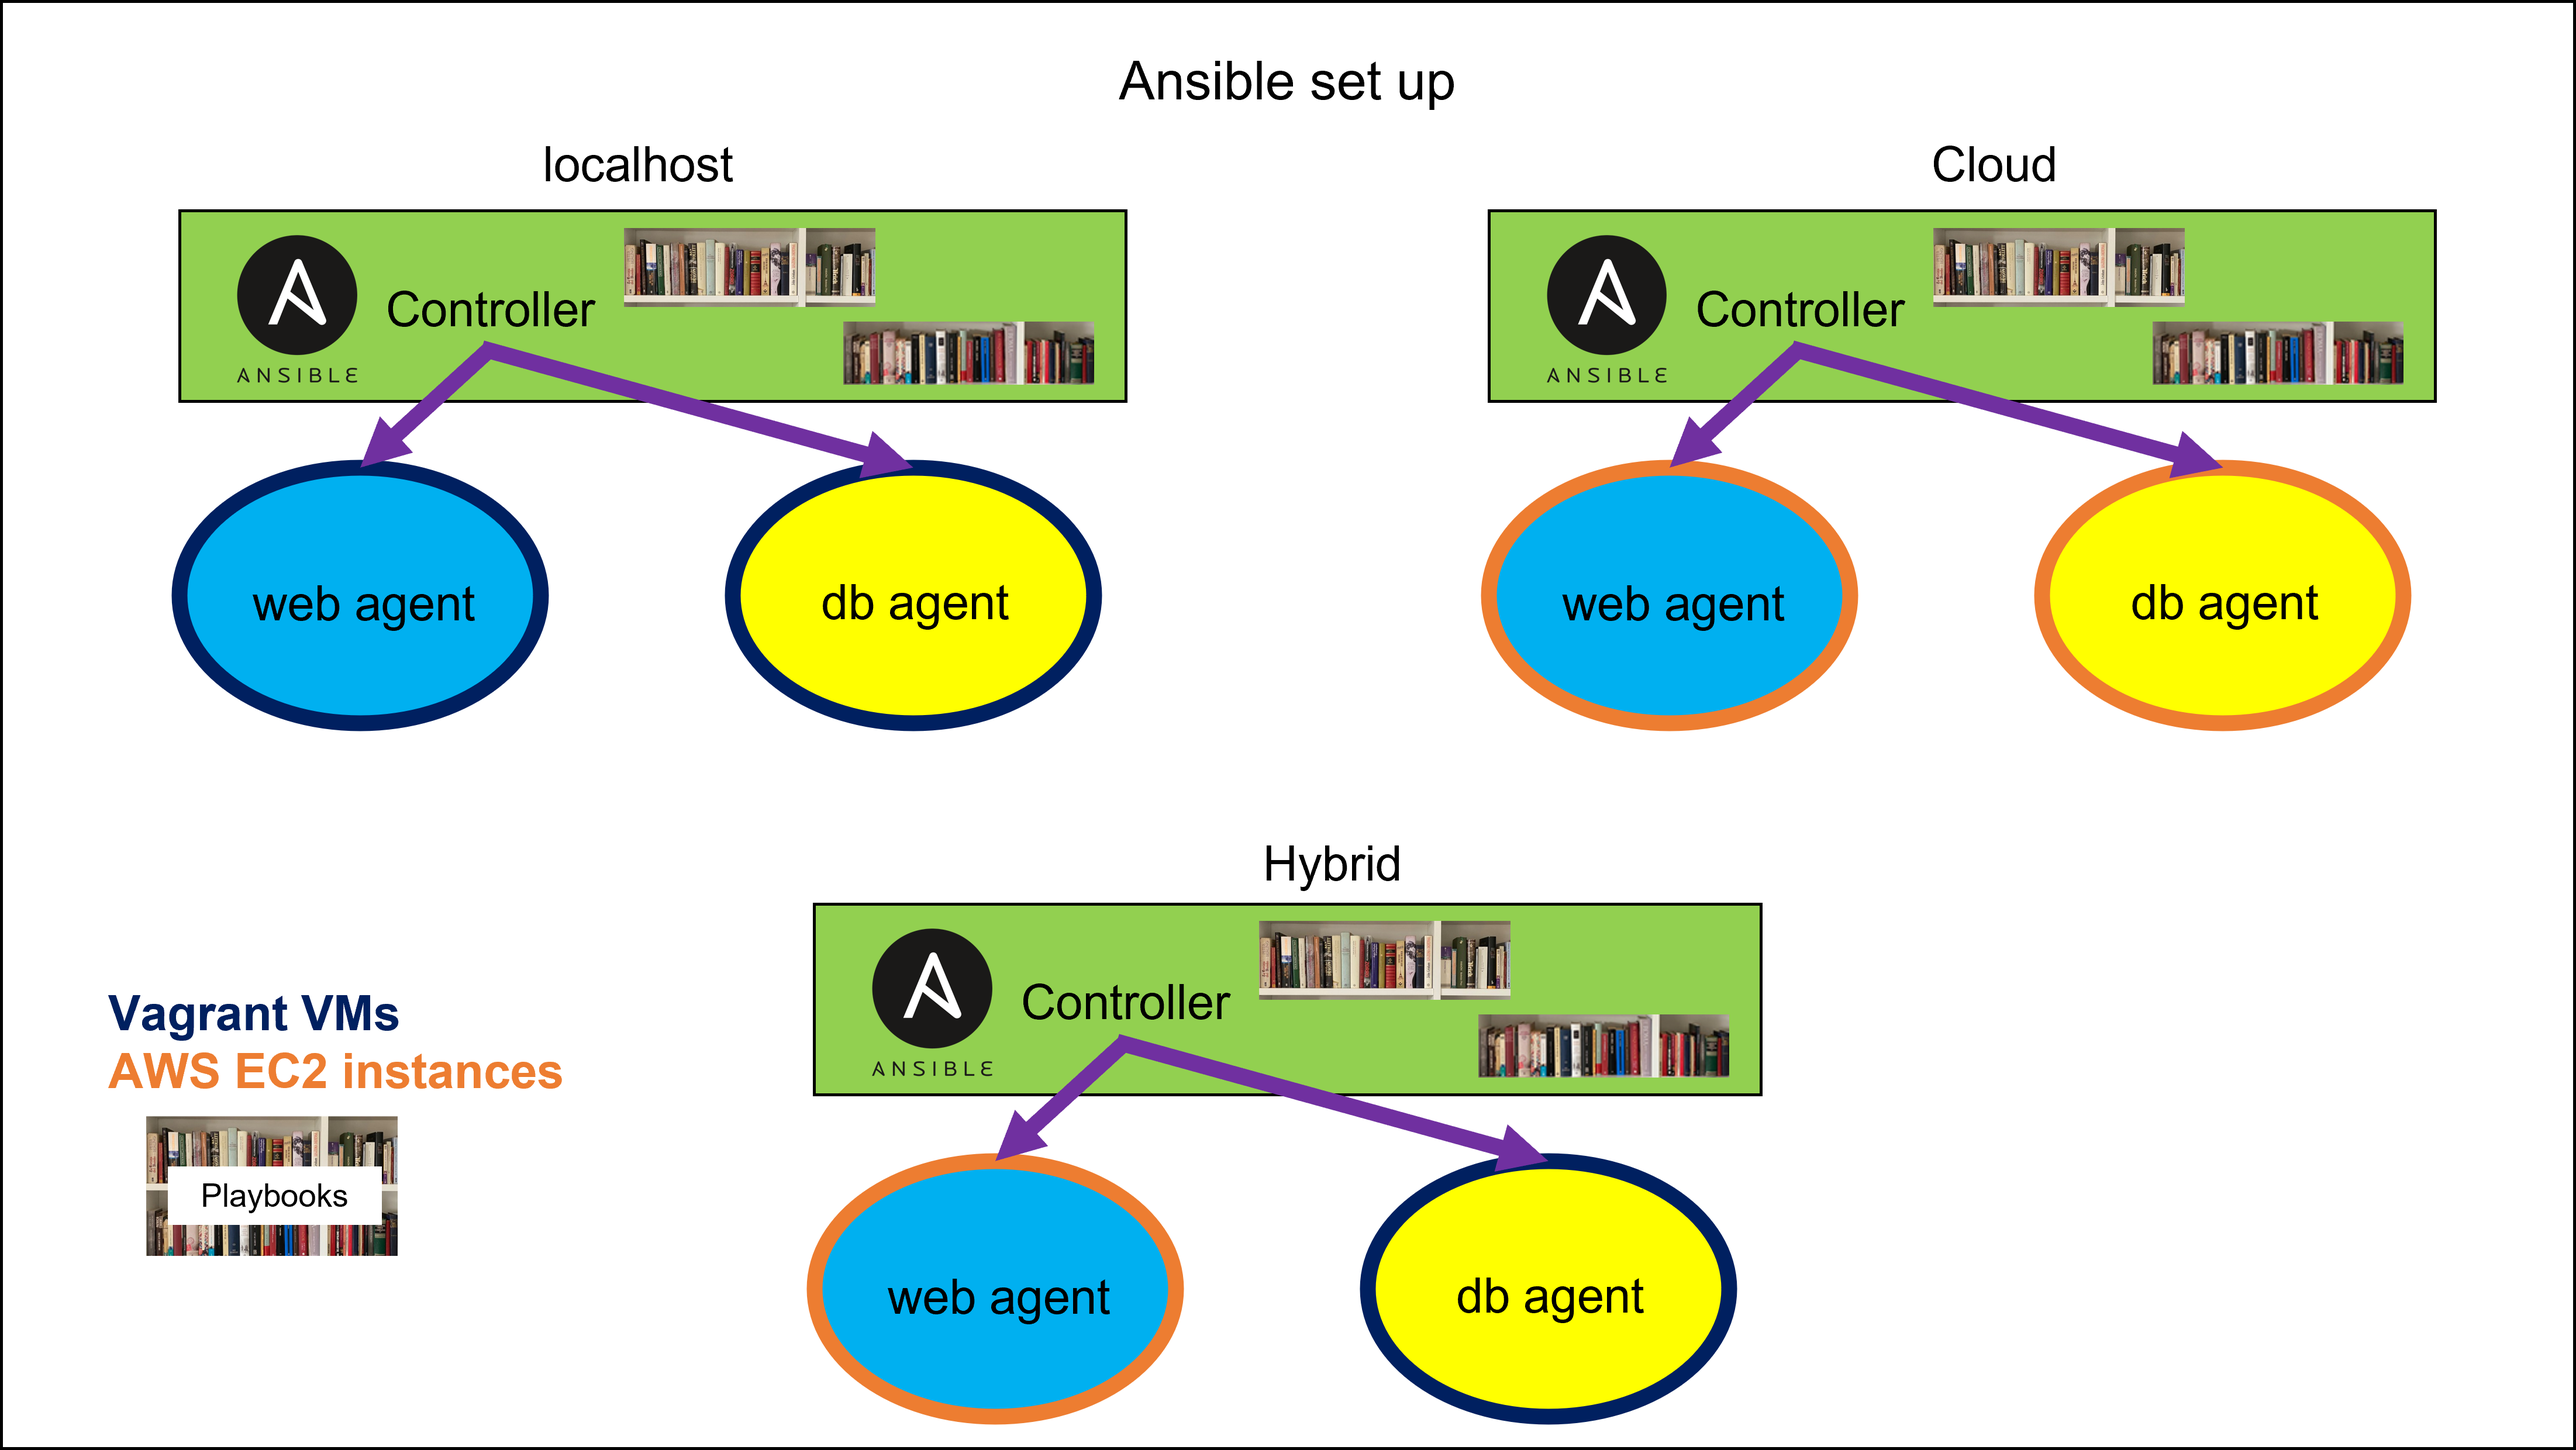
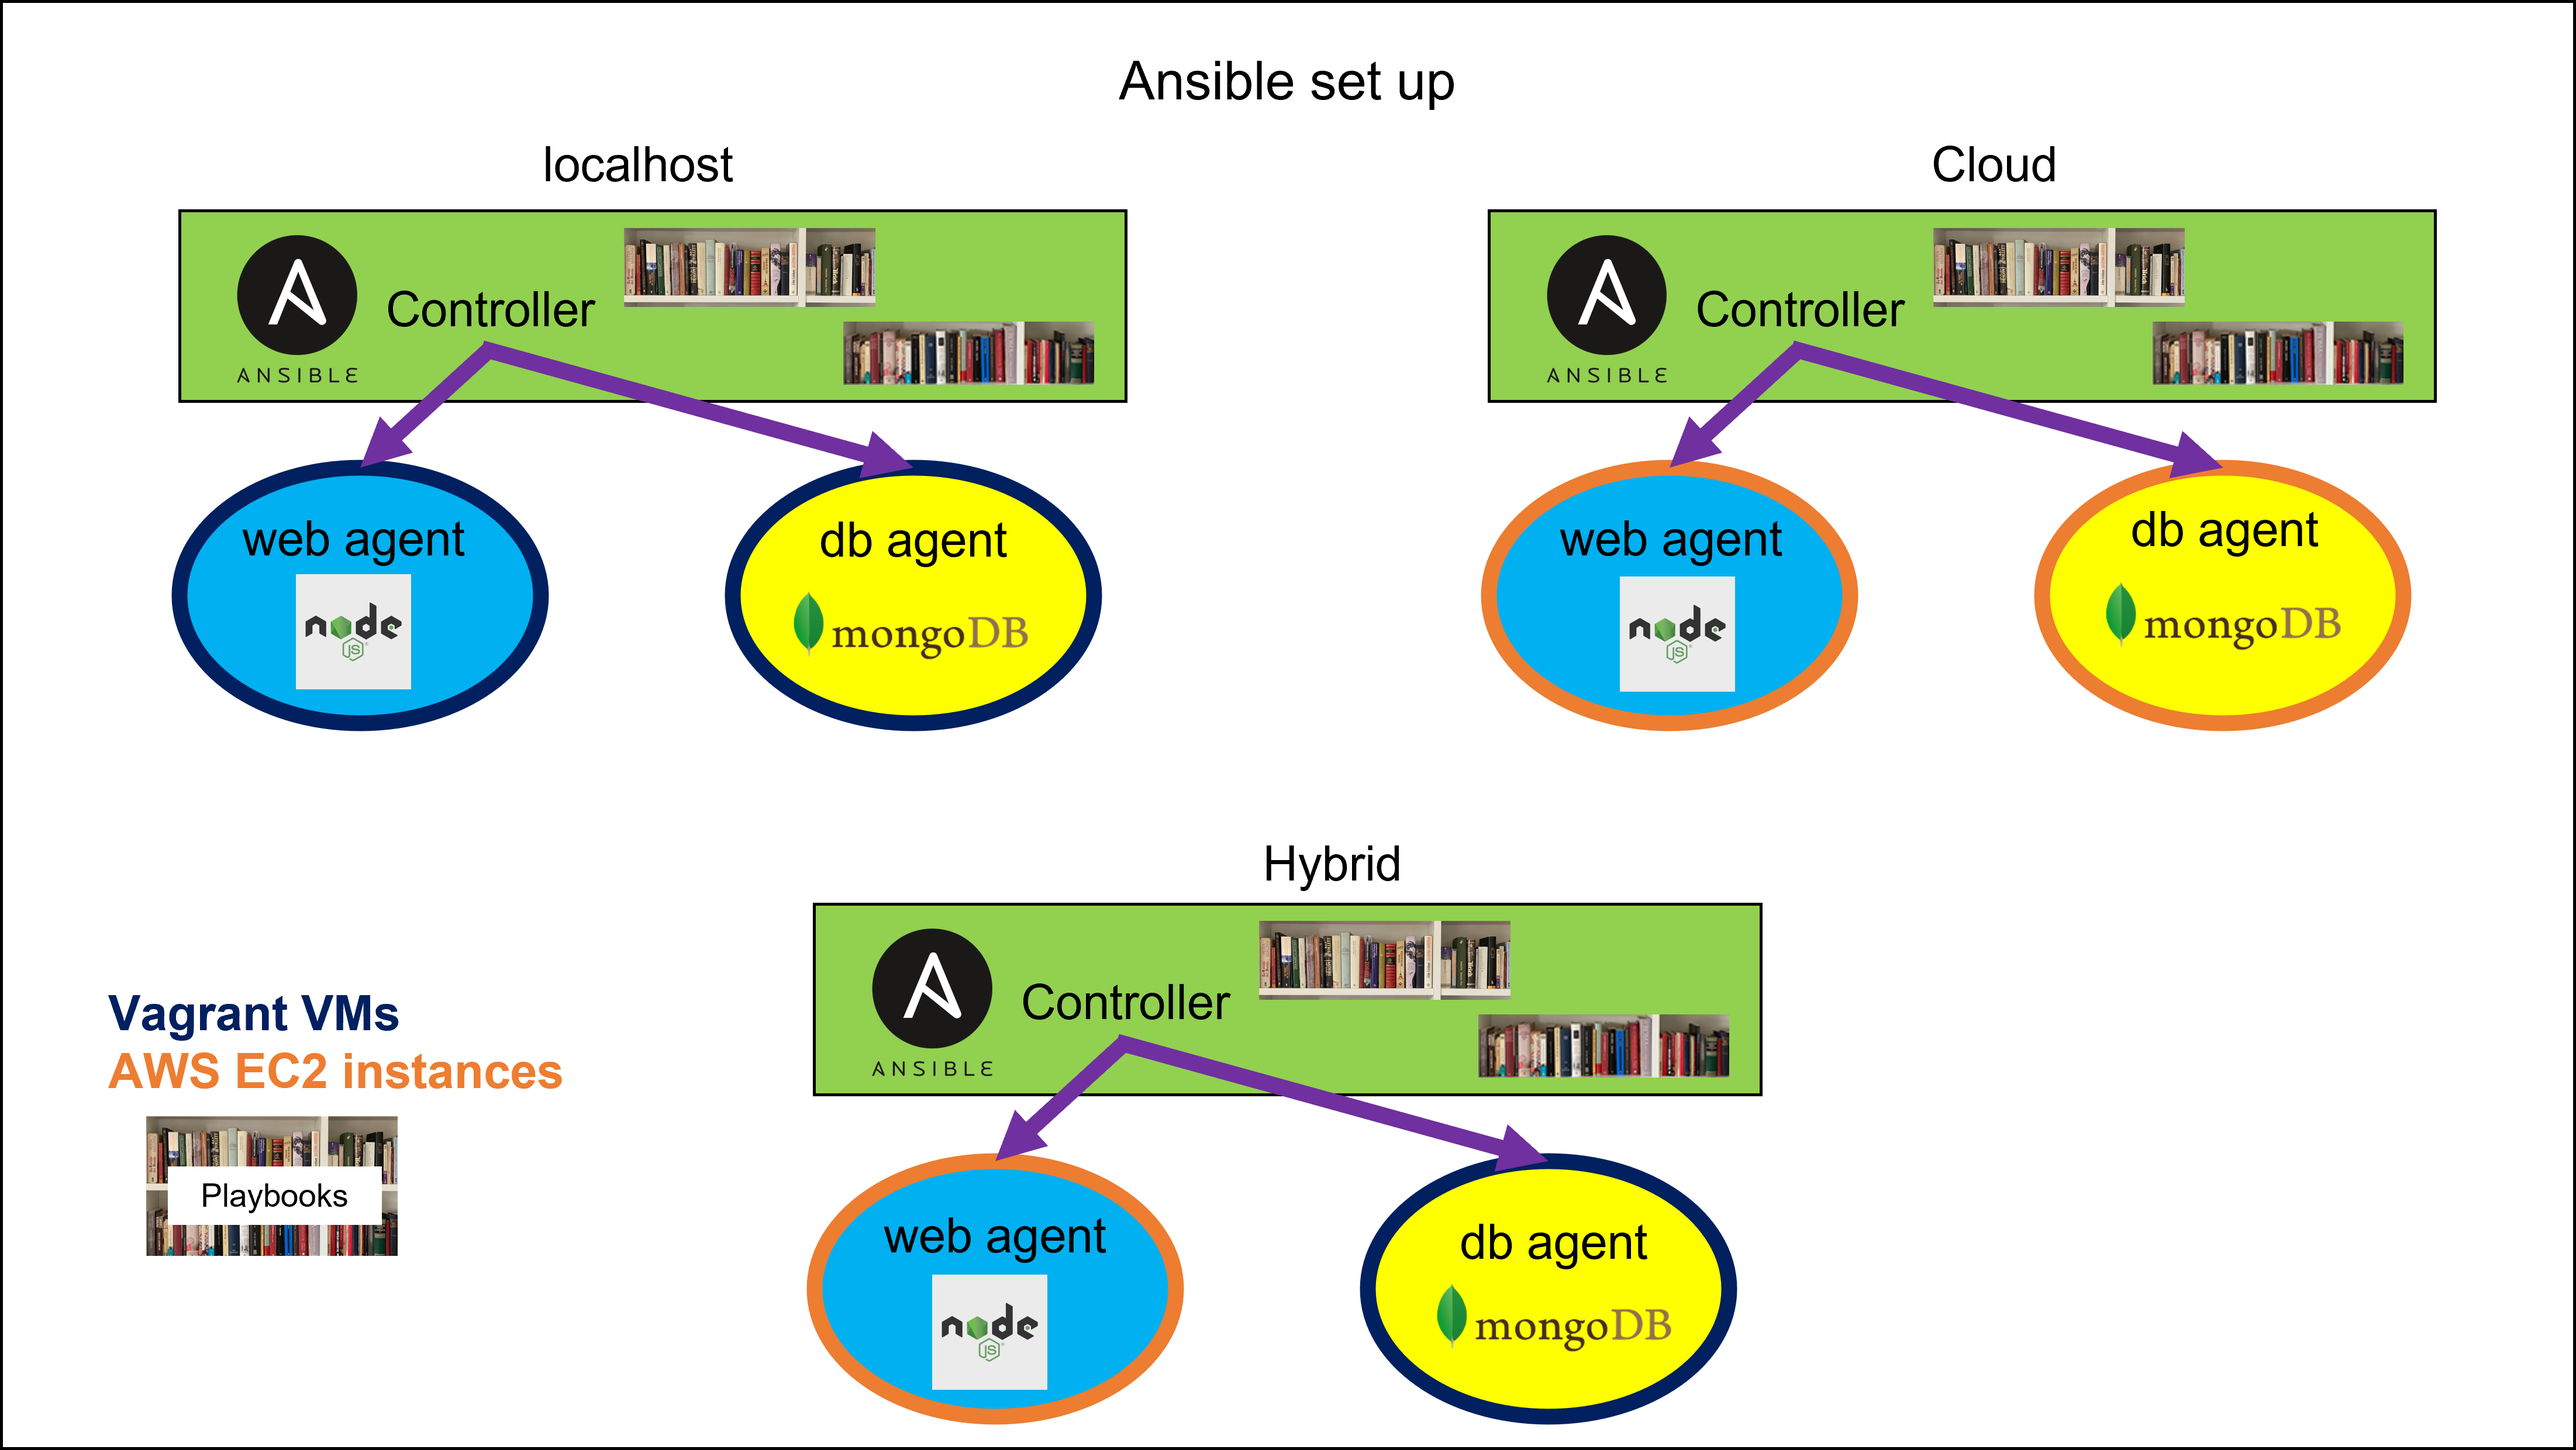
Updtated documentation with diagrams

diff --git a/documentation/hybrid.md b/documentation/hybrid.md
@@ -1,6 +1,8 @@
 # Hybrid Architecture
 There are scenarios in which a database needs to be kept on business premises for security reasons. The below playbooks will set this hybrid system up.
 
+![Ansible Hybrid Architecture](../diagrams/Ansible_Hybrid.png)
+
 ## run_playbooks.yml
 
 ```yaml

diff --git a/documentation/AWS_Ansible.md b/documentation/AWS_Ansible.md
@@ -1,5 +1,8 @@
 # Using AWS with Ansible
+
 These steps outline how to set up the node app with the database using AWS EC2. 
+
+![Ansible AWS](../diagrams/Ansible_AWS.png)
 
 > 1. Run these on your Controller VM to get the dependencies:
 ```bash
